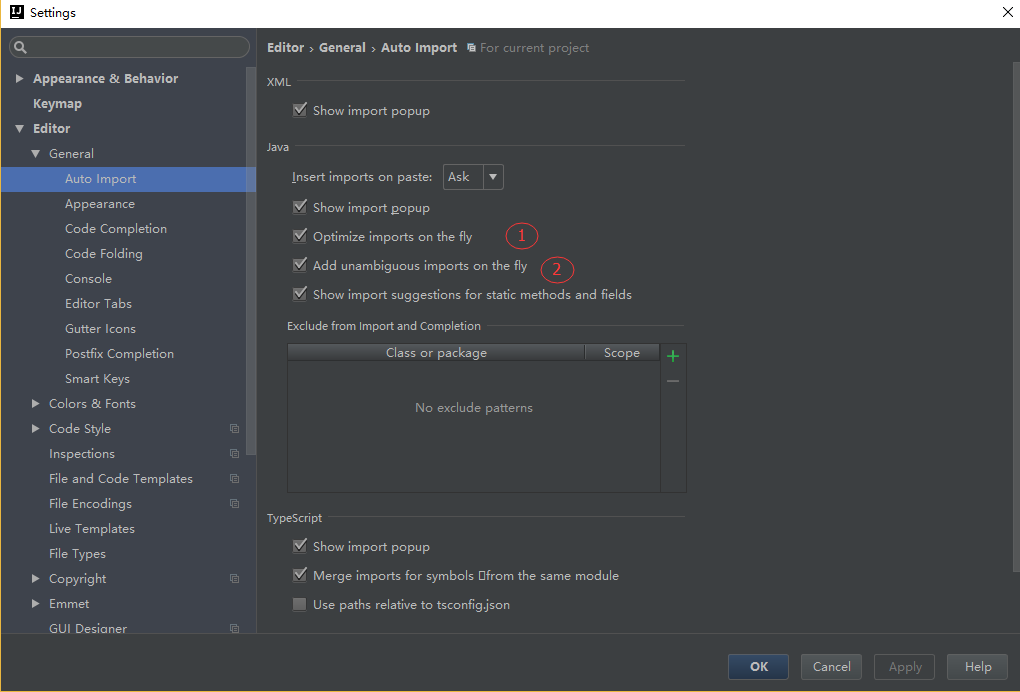
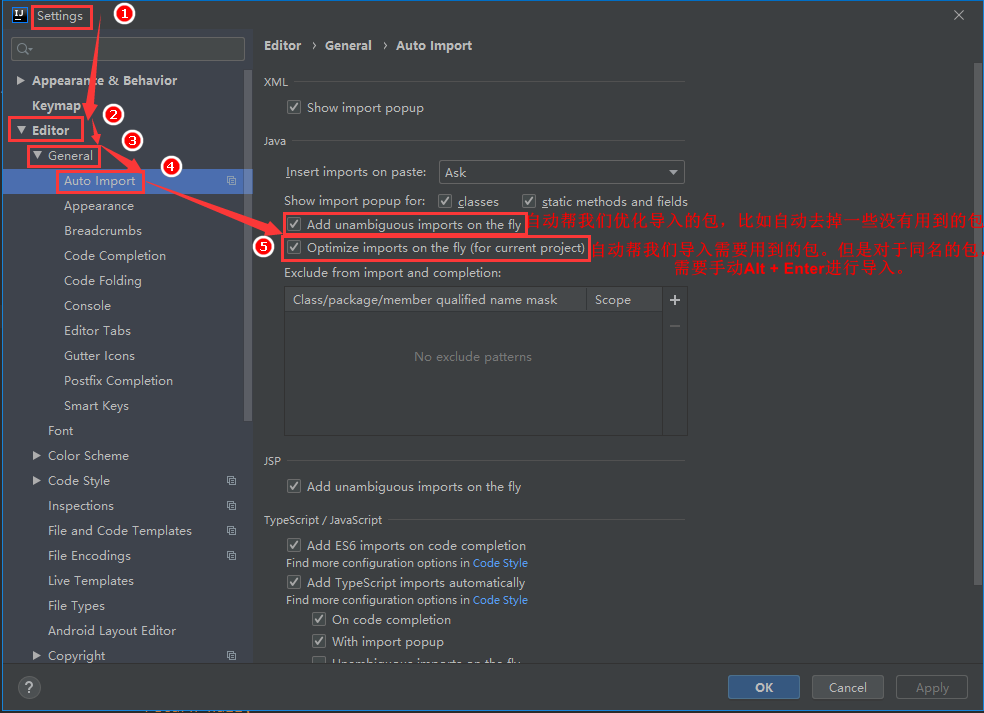
添加PyCharm自动导包设置

diff --git a/IDE/IDEA.md b/IDE/IDEA.md
@@ -133,7 +133,7 @@ public class ${NAME} {
 
 ## 自定义方法注释模板
 
-> 默认方法注释快捷键：`/**`+`Enter`
+- 默认方法注释快捷键：`/**`+`Enter`
 
 > Template text：
 ```java
@@ -162,13 +162,13 @@ groovyScript("def result=''; def params=\"${_1}\".replaceAll('[\\\\[|\\\\]|\\\\s
 groovyScript("def result=\"${_1}\"; if(result == 'void'){return '';}else{return result+' ';}", methodReturnType())
 ```
 
-> 使用时，直接在方法上输入/加上你的Abbreviation名字，再按Tab键即可获取方法上的参数
+- 使用时，直接在方法上输入/加上你的Abbreviation名字，再按Tab键即可获取方法上的参数
 
 ![](/images/IDEA方法注释设置.png)
 
 ### 示例
 
-> 使用时，直接在方法上输入/加上你的Abbreviation名字，再按Tab键即可获取方法上的参数
+- 使用时，直接在方法上输入/加上你的Abbreviation名字，再按Tab键即可获取方法上的参数
 
 ![](/images/IDEA方法注释示例.png)
 
@@ -180,6 +180,8 @@ groovyScript("def result=\"${_1}\"; if(result == 'void'){return '';}else{return 
 
 ## 自动优化导包
 
+- `File`→`Settings`→`General`→`Auto Import`→`Python`→`Show import popup`
+
 > `Add unambiguous imports on the fly` 自动帮我们优化导入的包，比如自动去掉一些没有用到的包。 
 
 > `Optimize imports on the fly` 自动帮我们导入需要用到的包。但是对于同名的包，需要手动`Alt + Enter`进行导入。
@@ -188,27 +190,27 @@ groovyScript("def result=\"${_1}\"; if(result == 'void'){return '';}else{return 
 
 ## 热部署策略
 
-> 顶部菜单`Run`->`Edit Configurations`->`SpringBoot`->`目标项目`->勾选`Update classes and resources`。
+- 顶部菜单`Run`->`Edit Configurations`->`SpringBoot`->`目标项目`->勾选`Update classes and resources`。
 
 ![](/images/IDEA的热部署策略.png)
 
 ## 自动编译
 
-> 同时按住`Ctrl + Shift + Alt + /`然后进入`Registry`，勾选自动编译并调整延时参数。
+- 同时按住`Ctrl + Shift + Alt + /`然后进入`Registry`，勾选自动编译并调整延时参数。
 
 ![](/images/IDEA自动编译-动态.png)
 
-> 打开顶部工具栏`File`->`Settings`->`Default Settings`->`Build`->`Compiler` 然后勾选`Build project automatically`
+- 打开顶部工具栏`File`->`Settings`->`Default Settings`->`Build`->`Compiler` 然后勾选`Build project automatically`
 
 ![](/images/IDEA自动编译-静态.png)
 
 ## 去掉MybatisXML局部背景颜色
 
-> 1.快捷键`ctrl + alt+ s`打开Settings。找到`Editor -> Inspections`的配置页面，去掉SQL中`No data sources configured`（没有配置数据源） 选项 和 `SQL dialect detection`（SQL方言检测） 选项。
+- 1.快捷键`ctrl + alt+ s`打开Settings。找到`Editor -> Inspections`的配置页面，去掉SQL中`No data sources configured`（没有配置数据源） 选项 和 `SQL dialect detection`（SQL方言检测） 选项。
 
 ![](/images/IDEA去掉SQL选项.png)
 
-> 2.去掉背景。找到`Editor -> Color -> General`的配置页面，选择`Code -> Injected language fragment`，去掉最右边的`Background`选项。
+- 2.去掉背景。找到`Editor -> Color -> General`的配置页面，选择`Code -> Injected language fragment`，去掉最右边的`Background`选项。
 
 ![](/images/IDEA去掉代码背景.png)
 
@@ -364,7 +366,14 @@ groovyScript("def result=\"${_1}\"; if(result == 'void'){return '';}else{return 
 
 ```
 
-> 默认函数注释快捷键：`"""`+`Enter`
+- 默认函数注释快捷键：`"""`+`Enter`
+
+### 自动导包
+
+- `File`→`Settings`→`General`→`Auto Import`→`Python`→`Show import popup`
+
+![](/images/PyCharm自动导包.png)
+
 
 ## GoLand
 
@@ -412,4 +421,4 @@ package ${GO_PACKAGE_NAME}
 
 ```
 
-> 默认函数注释快捷键：`/**`+`Enter`
+- 默认函数注释快捷键：`/**`+`Enter`
